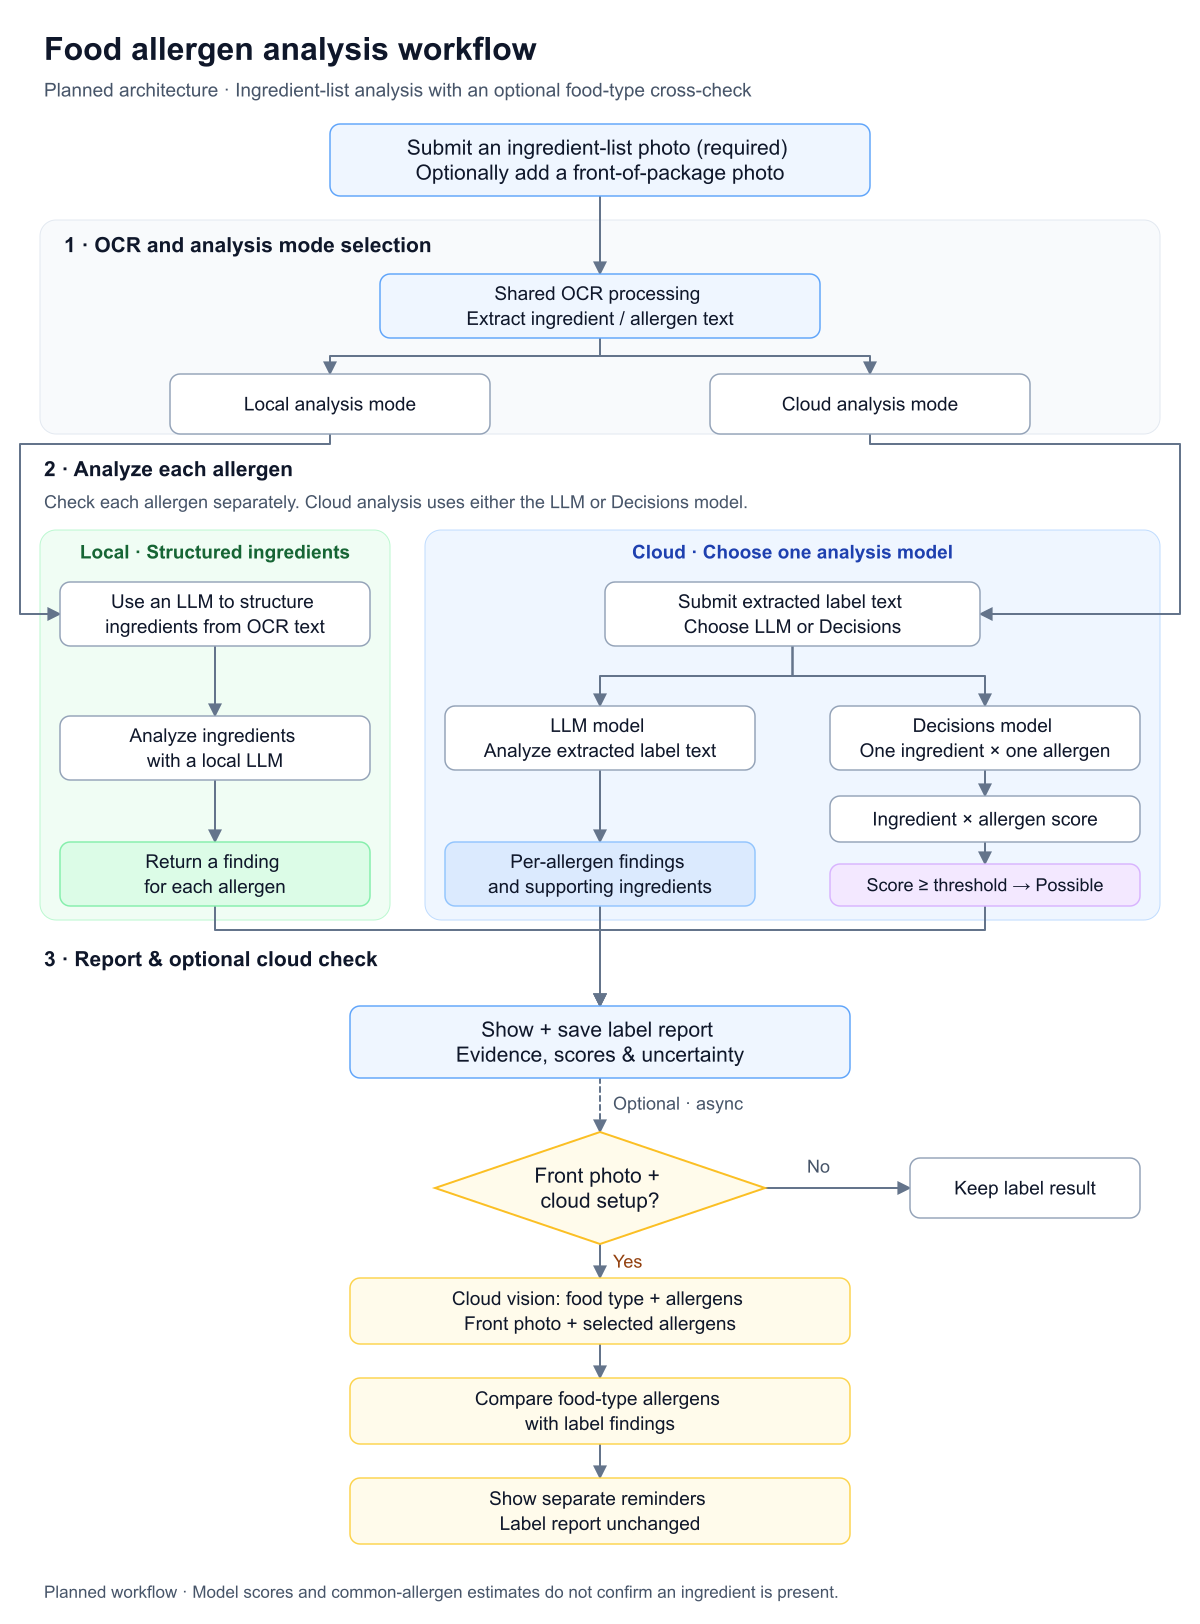
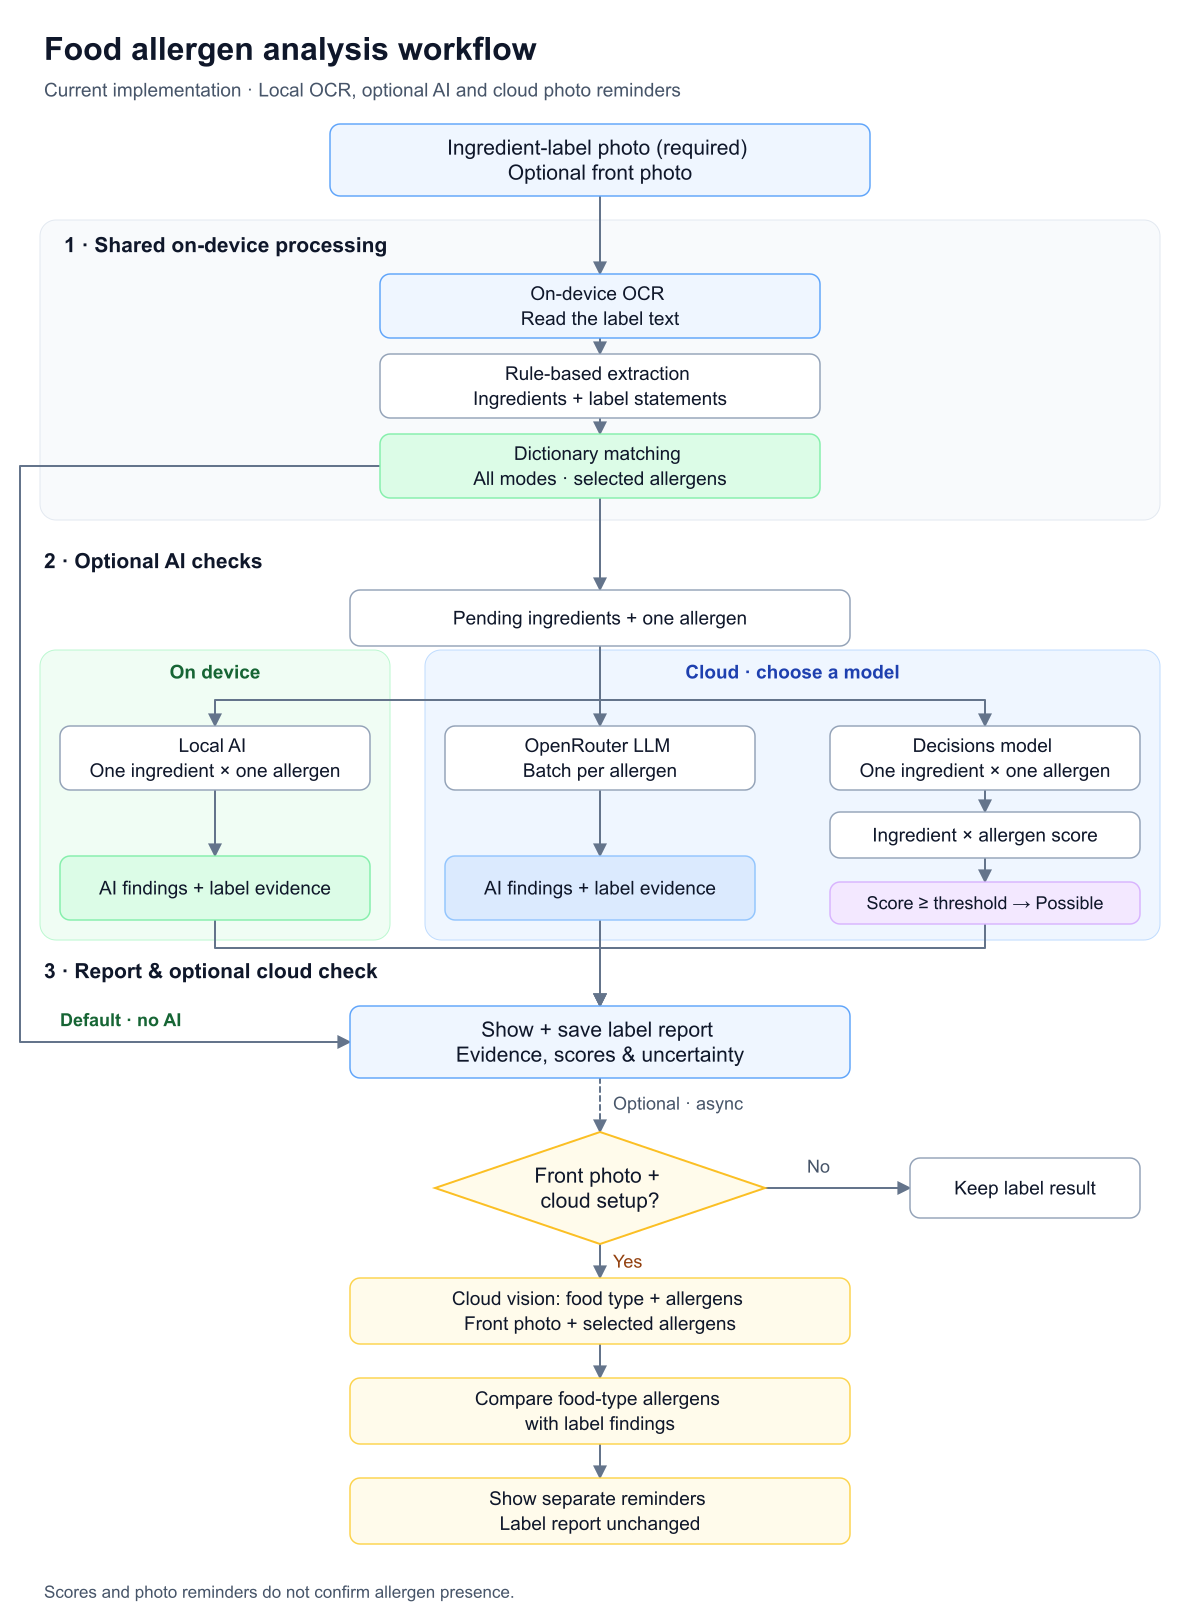
Batch pending ingredients for AI allergen checks

diff --git a/README.md b/README.md
@@ -259,7 +259,7 @@ The main scan uses shared on-device OCR, deterministic ingredient structuring, a
 | --- | --- |
 | Dictionary matching (Matching mode) | Local rules and the built-in dictionary; the default local detection method. |
 | Local AI | On-device Gemma 3 1B through MediaPipe. Download the model in Settings before use. |
-| OpenRouter LLM | Cloud chat completions analyze the complete structured ingredient list for one selected allergen per request. Save an OpenRouter API key and a chat model ID in `provider/model` format. |
+| OpenRouter LLM | Cloud chat completions batch the structured ingredients still needing AI checks for one selected allergen per request. Save an OpenRouter API key and a chat model ID in `provider/model` format. |
 | Decisions model | OpenRouter's native `/api/alpha/decisions` API. Save a compatible Decisions model ID and a threshold from 0 to 1 (default 0.5). This is a separate model setting from the chat model. |
 
 ### Set up Local AI (optional)
@@ -281,13 +281,13 @@ The same downloaded model is used by the separate **OCR Test** AI ingredient rea
 
 Cloud fields apply only after **Save**, while selecting the detection method applies immediately. No `.env` file, build-time secret, or server deployment is required. API keys are stored in app-private preferences and excluded from Android backup and device transfer. Re-enter the key on a new installation/device; keep it out of Git, screenshots, and logs.
 
-**Every ingredient-list AI request targets only one selected allergen.** Local AI checks **one ingredient per request** to reduce hallucinations, using a fresh session for each ingredient/allergen pair. Decisions also scores **one ingredient per request** so each flag can be attributed to its original ingredient. The OpenRouter cloud LLM receives the **complete structured ingredient list in one request per selected allergen** and returns findings associated with the supplied ingredients. Parent ingredient names and bracketed sub-ingredients stay separately identifiable. Other selected allergens, the raw full label, and photos are not included in ingredient-classification requests. Label statements such as “contains” and “may contain” remain distinct and are checked locally. The separate OCR Test screen's LLM ingredient reader is not used for classification.
+**Every ingredient-list AI request targets only one selected allergen.** Ingredient/allergen pairs already flagged by the dictionary skip AI. Local AI checks **one remaining ingredient per request** to reduce hallucinations, using a fresh session for each ingredient/allergen pair. Decisions also scores **one ingredient per request** so each flag can be attributed to its original ingredient. The OpenRouter cloud LLM receives the **remaining structured ingredients in one batch per selected allergen** and returns findings associated with the supplied ingredients. Parent ingredient names and bracketed sub-ingredients stay separately identifiable. Other selected allergens, the raw full label, and photos are not included in ingredient-classification requests. Label statements such as “contains” and “may contain” remain distinct and are checked locally. The separate OCR Test screen's LLM ingredient reader is not used for classification.
 
 AI replies contain only a validated verdict or Decisions score, never generated ingredient names. The report attaches every risk, uncertain result, and unchecked item to its original ingredient text. Existing matching positives cannot be removed by AI. AI findings are shown as possible sources, and Decisions scores at or above the configured threshold are flagged; these scores are model predictions, not calibrated probabilities or proof of presence. Even when “show not detected” is off, flagged or unchecked ingredients remain visible.
 
 Missing configuration offers a link to AI settings. Request failures, malformed answers, and 90-second model timeouts preserve the best partial report, mark unprocessed ingredients for manual review, and offer retry. Empty/unreadable input remains inconclusive; no ingredients are invented to fill an empty result. Headingless and short text are checked as far as the extracted evidence permits.
 
-Cloud LLM mode sends the complete structured ingredient list and one selected allergen to OpenRouter over HTTPS; Decisions sends one ingredient and one selected allergen per request. API keys are stored in app-private preferences and excluded from Android backup and device transfer. Model IDs are deliberately left empty until configured; there is no bundled key. See the official [OpenRouter API documentation](https://openrouter.ai/docs/api_reference/overview) and [Decisions guide](https://openrouter.ai/docs/guides/community/multimodal-decisions).
+Cloud LLM mode sends the structured ingredients still needing AI checks and one selected allergen to OpenRouter over HTTPS; Decisions sends one such ingredient and one selected allergen per request. API keys are stored in app-private preferences and excluded from Android backup and device transfer. Model IDs are deliberately left empty until configured; there is no bundled key. See the official [OpenRouter API documentation](https://openrouter.ai/docs/api_reference/overview) and [Decisions guide](https://openrouter.ai/docs/guides/community/multimodal-decisions).
 
 ## Optional food-type cross-check
 
@@ -301,9 +301,9 @@ Without a front photo, the ingredient scan proceeds normally. An unreadable food
 
 ## Workflow
 
-![Planned architecture with ingredient-allergen Decisions scores and an independent optional cloud photo check after the label report.](docs/workflow-updated.drawio.svg)
+![Current workflow: local OCR, rule-based extraction, dictionary matching, optional AI checks, and an independent cloud photo check after the label report.](docs/workflow-updated.drawio.svg)
 
-[Open the updated diagram](docs/workflow-updated.drawio.svg) · [PNG preview](docs/workflow-updated.png) · [Original diagram](docs/workflow.drawio.svg). Both SVGs contain editable diagrams.net / draw.io data. The updated version revises Decisions scoring and the optional photo-check branch; the remaining diagram retains the planned architecture. The [MoSCoW Scope](#moscow-scope) defines MVP commitments.
+[Open the updated diagram](docs/workflow-updated.drawio.svg) · [PNG preview](docs/workflow-updated.png) · [Original diagram](docs/workflow.drawio.svg). Both SVGs contain editable diagrams.net / draw.io data. The updated diagram follows the current implementation: all modes share local extraction and dictionary matching; the default path reports directly, while optional AI checks only pending ingredients. The original planned diagram is preserved. The [MoSCoW Scope](#moscow-scope) defines MVP commitments.
 
 ### MVP path (Must Have)
 
@@ -311,20 +311,20 @@ Without a front photo, the ingredient scan proceeds normally. An unreadable food
 2. **Image input:** take or upload an ingredient-list photo containing any visible allergen statements.
 3. **OCR:** extract the ingredient list and visible "contains" or "may contain" text. Report unreadable input or processing failures and let users upload another image or retry.
 4. **Ingredient extraction:** organize OCR text into structured ingredients, retaining the original text and allergen statements for evidence. The main scan structures ingredients deterministically and expands bracketed sub-ingredients; a separate OCR Test screen also provides a local LLM ingredient reader.
-5. **Normalization and local analysis:** map ingredient synonyms and derivatives to allergen groups, then use Matching mode or check each ingredient against each selected allergen in separate local AI requests. Label statements retain local matching evidence. Report insufficient evidence or inconclusive findings explicitly.
+5. **Normalization and local analysis:** map ingredient synonyms and derivatives to allergen groups in every mode. Matching mode reports these findings directly; optional local AI checks remaining ingredient/allergen pairs. Label statements retain local matching evidence. Report insufficient evidence or inconclusive findings explicitly.
 6. **Report:** show the extracted ingredients and a separate finding for each selected allergen, along with supporting ingredients or label text where available and any uncertainty. Keep precautionary warnings distinct from ingredient evidence and model inferences.
 
 ### Extensions
 
-- **Cloud analysis (Should Have):** send the complete structured ingredient list from the shared OCR process to an OpenRouter cloud LLM, one selected allergen per request, and return findings tied to the original ingredients as an alternative to local AI.
+- **Cloud analysis (Should Have):** batch the structured ingredients still needing AI checks for an OpenRouter cloud LLM, one selected allergen per request, and return findings tied to the original ingredients as an alternative to local AI.
 - **Front-photo cross-check (Should Have):** estimate the food type from an optional front photo of the same product, use model knowledge to estimate common allergens, and compare those estimates with the ingredient-list findings for the selected allergens. Add review reminders for common allergens not identified in the label analysis. Without a front photo, proceed directly to the report.
 - **Scan history (Should Have):** let users revisit previous scans, extracted ingredients, and analysis results.
-- **Additional models (Could Have):** offer the Decisions model as an additional cloud option, producing per-allergen scores and flags at a configured threshold. Scores are model predictions, not confirmed ingredient presence.
+- **Additional models (Could Have):** offer the Decisions model as an additional cloud option, producing ingredient/allergen scores and flags at a configured threshold. Scores are model predictions, not confirmed ingredient presence.
 - **Image preparation and unpackaged-food exploration (Could Have):** add cropping or rotation, and separately explore food-type recognition without an ingredient label. Unpackaged-food exploration does not replace the required label input in the MVP path.
 
 ### Processing location
 
-Settings selects Local (Matching mode or Local AI) or Cloud (OpenRouter LLM or Decisions). OCR and main-scan ingredient structuring run on-device in every mode. Cloud LLM classification sends the complete structured ingredient list and one selected allergen per request; Decisions sends only one ingredient and one selected allergen per request. Local AI also checks one ingredient and one selected allergen per request using the downloaded Gemma model; download requires internet, and subsequent local inference runs offline.
+Settings selects Local (Matching mode or Local AI) or Cloud (OpenRouter LLM or Decisions). OCR, main-scan ingredient structuring, and dictionary matching run on-device in every mode. AI skips ingredient/allergen pairs already flagged by the dictionary. Cloud LLM classification batches the remaining structured ingredients for one selected allergen per request; Decisions sends one remaining ingredient and one selected allergen per request. Local AI also checks one remaining ingredient and one selected allergen per request using the downloaded Gemma model; download requires internet, and subsequent local inference runs offline.
 
 ## Tech stack
 
@@ -339,7 +339,7 @@ The current implementation uses the following components. Dependency versions ar
 | Allergen normalization and matching | Must | Built-in JSON dictionary of ingredient synonyms, derivatives, ambiguous terms, and exclusions |
 | Local allergen-analysis LLM | Must, optional mode | Gemma 3 1B via MediaPipe Tasks GenAI **0.10.35**; one ingredient/allergen pair at a time, with local label-statement evidence retained |
 | Scan history | Should | Android SQLite with app-private label images and **7-day** retention |
-| Cloud LLM | Should | OpenRouter HTTPS chat completions; complete structured ingredient list for one selected allergen per request |
+| Cloud LLM | Should | OpenRouter HTTPS chat completions; pending structured ingredients batched for one selected allergen per request |
 | Optional food-type cross-check | Should | Separate OpenRouter vision model; front-photo estimates produce review reminders only |
 | Image preparation tools | Could | User-facing cropping and rotation tools are not implemented |
 | Cloud Decisions model | Could, implemented | Native OpenRouter Decisions endpoint; ingredient/allergen scores with configurable model ID and threshold |
